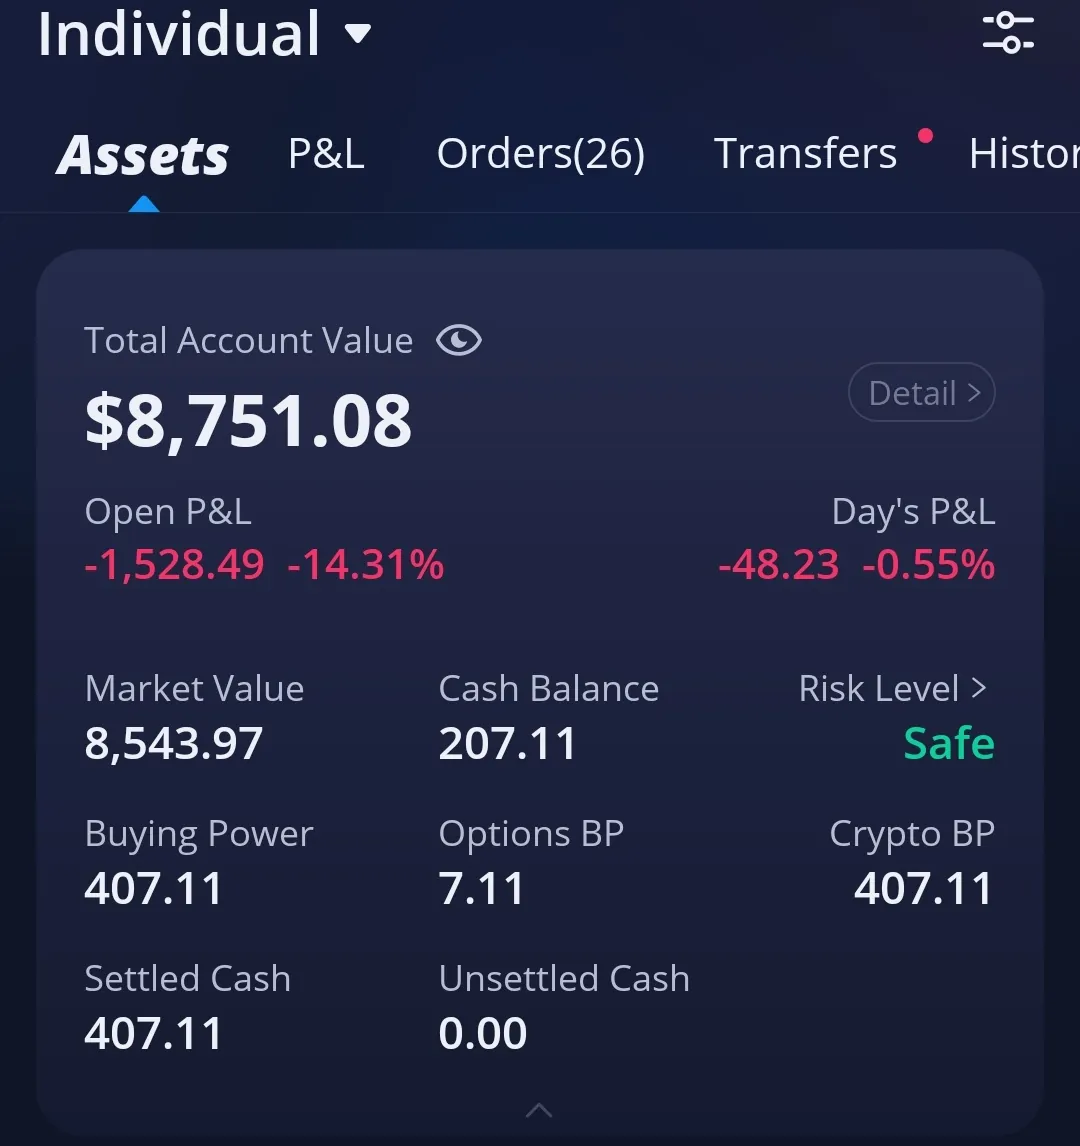
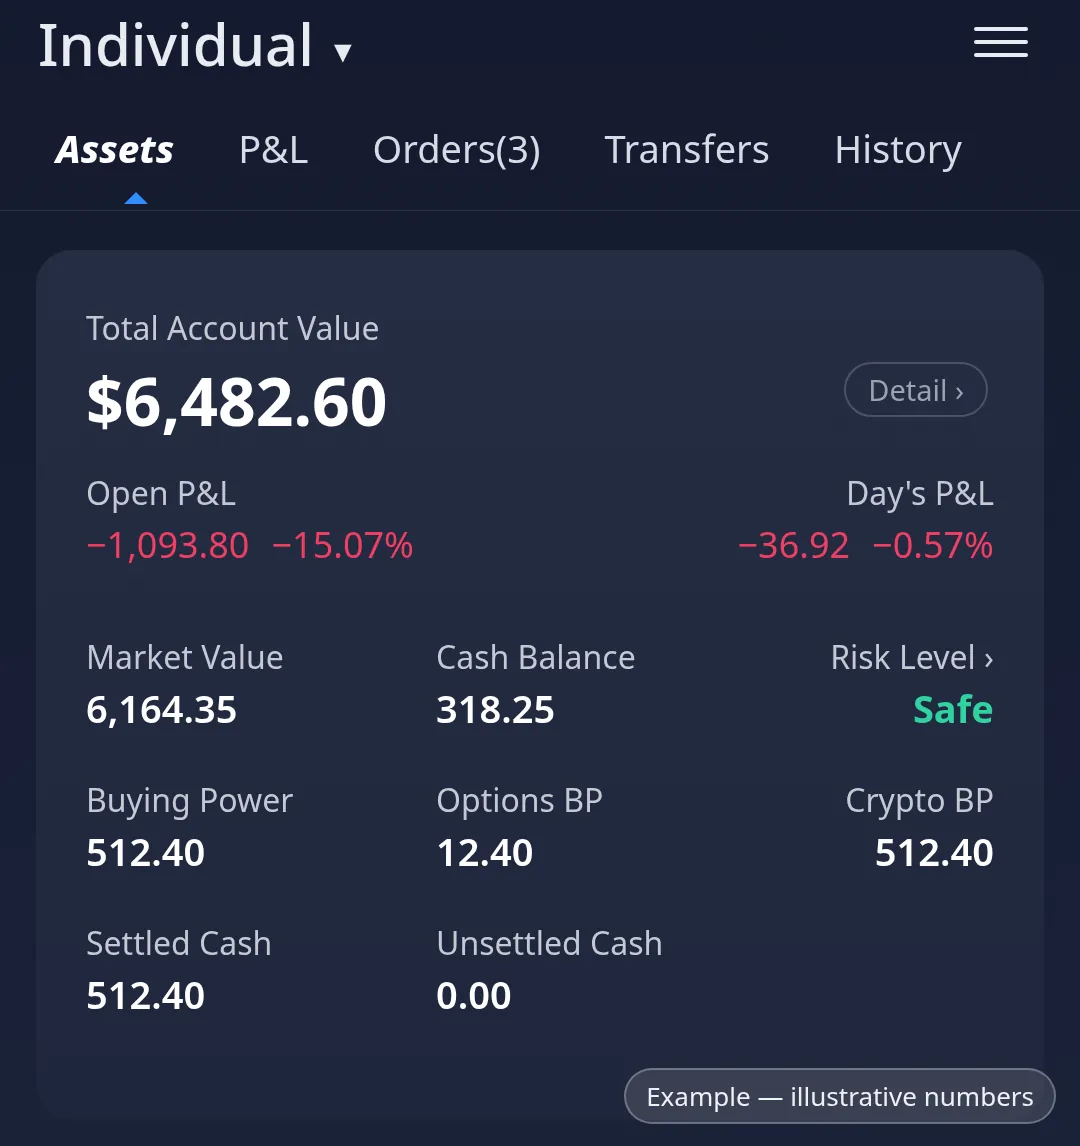
Replace the example Webull screenshots with illustrative look-alike screens.

diff --git a/src/lib/chartingApps.ts b/src/lib/chartingApps.ts
@@ -59,7 +59,7 @@ export const WEBULL_SOURCES: Src[] = [
   s("Webull: platform navigation (Script Editor)", "https://www.webull.com/help/faq/11033-General-Platform-Navigation"),
 ];
 
-// ---------------------------------------------------------------- #22 example Webull screenshots
+// ---------------------------------------------------------------- #22 example Webull-style screens (look-alikes, illustrative numbers)
 export interface ScreenshotDef { id: string; src: string; srcSmall: string; width: number; height: number; alt: string; title: string; captions: string[] }
 export const WEBULL_SCREENSHOTS: ScreenshotDef[] = [
   {
@@ -68,7 +68,7 @@ export const WEBULL_SCREENSHOTS: ScreenshotDef[] = [
     srcSmall: "/screenshots/webull-pl-calendar-480.webp",
     width: 640, height: 781,
     title: "P&L Calendar (month view)",
-    alt: "Webull P&L Calendar, month view for February 2025: Monday Jan 27 to Friday Jan 31 show +55.41, +28.44, +61.10, +47.54 and +77.71, and Today shows +267.12, all in green.",
+    alt: "Example Webull-style P&L Calendar with illustrative numbers, month view for August 2026: Monday Jul 27 to Friday Jul 31 show +42.18, +19.65, +73.04, +36.27 and +58.90, and Today shows +184.36, all in green.",
     captions: [
       "Each day shows that day's total profit or loss across your assets: trades closed that day plus the day's change in positions you still hold, after fees.",
       "Useful for spotting overtrading and streaks: a run of busy days, or a habit of trading more after a loss.",
@@ -81,10 +81,10 @@ export const WEBULL_SCREENSHOTS: ScreenshotDef[] = [
     srcSmall: "/screenshots/webull-assets-480.webp",
     width: 1080, height: 1146,
     title: "Assets tab",
-    alt: "Webull Assets tab: Total Account Value $8,751.08; Open P&L −1,528.49 (−14.31%); Day's P&L −48.23 (−0.55%); Market Value 8,543.97; Cash Balance 207.11; Risk Level Safe; Buying Power 407.11; Options BP 7.11; Crypto BP 407.11; Settled Cash 407.11; Unsettled Cash 0.00.",
+    alt: "Example Webull-style Assets tab with illustrative numbers: Total Account Value $6,482.60; Open P&L −1,093.80 (−15.07%); Day's P&L −36.92 (−0.57%); Market Value 6,164.35; Cash Balance 318.25; Risk Level Safe; Buying Power 512.40; Options BP 12.40; Crypto BP 512.40; Settled Cash 512.40; Unsettled Cash 0.00.",
     captions: [
-      "Open P&L (−14.31%) is unrealized: (last price − average cost) × shares, across what you hold now. Day's P&L (−0.55%) is just today's change.",
-      "A calendar of green days can sit alongside −14% open P&L: the days measure change from each prior close, while open P&L still counts from your original cost.",
+      "Open P&L (−15.07%) is unrealized: (last price − average cost) × shares, across what you hold now. Day's P&L (−0.57%) is just today's change.",
+      "A calendar of green days can sit alongside −15% open P&L: the days measure change from each prior close, while open P&L still counts from your original cost.",
       "Cash, Buying Power, and Settled vs Unsettled Cash are different numbers. US stock trades settle T+1 (one business day after the trade, since May 28, 2024), so sale proceeds show as unsettled until then.",
       "Options BP is tracked separately and can be far lower than stock buying power. Check it before an options order.",
       "Risk Level is Webull's margin-call indicator: Safe means no margin call right now, not that the positions are safe from losses.",
@@ -157,8 +157,8 @@ export const CHART_APP_QUESTIONS: QuizQuestion[] = [
   mc("CHA-08", "Why is broker education free?", "D", "Partly because brokers earn when you trade, including payment for order flow", ["Regulators pay for it", "It's always ad-free charity", "Brokers lose money on it on purpose"], "PFOF is legal and disclosed on confirmations. Learn, then decide how often to trade for your own reasons.", "payment-for-order-flow"),
   mc("CHA-09", "Payment for order flow is…", "B", "Payment a broker receives for routing customer orders to a market maker or venue", ["A fee you pay per order", "A tax on day trades", "Interest on cash"], "It must be disclosed on trade confirmations.", "payment-for-order-flow"),
   mc("CHA-10", "A sensible path from zero to real money is…", "A", "Tutorials for a month, about a year of paper trading, then small real positions", ["Real money on day one to learn faster", "One weekend of videos", "Wait for a guaranteed return first"], "No stage promises a result. Options take months to understand."),
-  mc("CHA-11", "In the example Webull Assets screen, Open P&L is −14.31% and Day's P&L is −0.55%. What's the difference?", "C", "Open P&L counts from your average cost on what you still hold; Day's P&L is only today's change", ["They're the same number in different units", "Day's P&L includes deposits", "Open P&L is realized gains"], "Open P&L is unrealized: (last price − average cost) × shares.", "open-pnl"),
-  mc("CHA-12", "The example screen shows Buying Power 407.11 and Options BP 7.11. What does that tell you?", "D", "Options buying power is tracked separately and is much lower here, so check it before an options order", ["You can buy $407 of options", "Options BP is always equal to cash", "The account is in a margin call"], "Stock, options and crypto buying power are separate lines."),
-  mc("CHA-13", "A P&L calendar shows five green days, yet open P&L is −14%. How?", "B", "Daily P&L measures change from each prior close; open P&L still counts from the original cost", ["The calendar is wrong", "Green days are unrealized only", "Open P&L ignores losses"], "A green streak doesn't mean the account is up overall.", "open-pnl"),
+  mc("CHA-11", "In the example Webull Assets screen, Open P&L is −15.07% and Day's P&L is −0.57%. What's the difference?", "C", "Open P&L counts from your average cost on what you still hold; Day's P&L is only today's change", ["They're the same number in different units", "Day's P&L includes deposits", "Open P&L is realized gains"], "Open P&L is unrealized: (last price − average cost) × shares.", "open-pnl"),
+  mc("CHA-12", "The example screen shows Buying Power 512.40 and Options BP 12.40. What does that tell you?", "D", "Options buying power is tracked separately and is much lower here, so check it before an options order", ["You can buy $512 of options", "Options BP is always equal to cash", "The account is in a margin call"], "Stock, options and crypto buying power are separate lines."),
+  mc("CHA-13", "A P&L calendar shows five green days, yet open P&L is −15%. How?", "B", "Daily P&L measures change from each prior close; open P&L still counts from the original cost", ["The calendar is wrong", "Green days are unrealized only", "Open P&L ignores losses"], "A green streak doesn't mean the account is up overall.", "open-pnl"),
   mc("CHA-14", "Since May 28, 2024, US stock trades settle…", "A", "T+1: one business day after the trade", ["Instantly", "T+2", "T+5"], "Sale proceeds show as unsettled until then.", "settled-cash"),
 ];

diff --git a/src/pages/practice/ChartingApps.tsx b/src/pages/practice/ChartingApps.tsx
@@ -139,8 +139,8 @@ export default function PracticeChartingApps() {
         <ul className="list-disc pl-5 space-y-1">{WEBULL_POINTS.map((p) => <li key={p}>{p}</li>)}</ul>
         <p className="text-[12px] space-x-1">{WEBULL_SOURCES.map(ext)}</p>
         <div className="space-y-2" data-testid="ca-webull-shots">
-          <p className="font-semibold">Example Webull screenshots</p>
-          <p className="text-[12px]">What Webull's account and P&L tools look like. They show account tracking, not how accurate any indicator is. Tap an image to enlarge.</p>
+          <p className="font-semibold">Example Webull-style screens</p>
+          <p className="text-[12px]">Look-alike recreations of Webull's account and P&L screens, with illustrative numbers. They show account tracking, not how accurate any indicator is. Tap an image to enlarge.</p>
           <div className="grid sm:grid-cols-2 gap-2">
             {WEBULL_SCREENSHOTS.map((sh) => <Shot key={sh.id} shot={sh} onOpen={() => setOpen(sh)} />)}
           </div>

diff --git a/README.md b/README.md
@@ -203,7 +203,7 @@ Detailed click scripts (exact labels for QA): [`QA_User_Flows.md`](./QA_User_Flo
 | `/practice/gamma-squeeze` | Gamma squeeze case: a SIMULATED weekly-call chase with enter / size / exit decisions, reveal, points and a stall counterfactual |
 | `/practice/news-biases` | News, biases & short-term options: expiry trade-off table, six bias cards, over- and underreaction research, OCO / bracket habits, a three-checkpoint news day |
 | `/practice/algo-trading` | Automated & algo trading (2026): broker API table, backtest traps, bot safety, PDT → intraday margin, stops around news, ATR sizing calculator, news-day playbook |
-| `/practice/charting-apps` | Indicator & charting apps: 11-app table, chart traps with a spot-the-trap drill, Robinhood and Webull charting views, example Webull screenshots, learning from broker apps |
+| `/practice/charting-apps` | Indicator & charting apps: 11-app table, chart traps with a spot-the-trap drill, Robinhood and Webull charting views, example Webull-style screens, learning from broker apps |
 | `/practice/crypto-candles` | Candlesticks for crypto: every candle pattern tagged works / adapted / rare in 24/7 markets, the harami takeaway |
 | `/practice/reversal-charts` | Reversal chart patterns: H&S, inverse H&S, double / triple tops and bottoms, wedges, rectangle vs triple bottom |
 | `/practice/one-minute-charts` | Reading 1-minute charts: grouping, open hour, legs drill, MES tick calculator, fib tools, bar count |
@@ -326,7 +326,7 @@ Beginner training modelled on how broker apps such as Webull teach new investors
 - 11 apps compared as of 2026-10-22: TradingView, Webull, Robinhood app, Robinhood Legend, thinkorswim, TC2000, TrendSpider, IBKR, Yahoo Finance, Finviz, StockCharts (indicators, scripting, layouts, cost, data notes, sources).
 - How charts mislead (log vs linear, extended hours, bar intervals, line vs candles, data feeds, unadjusted splits, indicator warm-up) with a three-item spot-the-trap drill.
 - Opinion panels, backed by each broker's docs: why the Robinhood app's indicator chart can mislead, and why Webull's is useful (MACD is taught as momentum, not overbought / oversold).
-- Example Webull screenshots (P&L calendar and Assets tab, `public/screenshots/*.webp` with 480 px variants, alt text and a tap-to-enlarge view): daily vs open P&L, cash vs buying power vs settled cash (T+1), separate options buying power, and the Risk Level indicator.
+- Example Webull-style screens (look-alike P&L calendar and Assets tab with illustrative numbers, `public/screenshots/*.webp` with 480 px variants, alt text and a tap-to-enlarge view): daily vs open P&L, cash vs buying power vs settled cash (T+1), separate options buying power, and the Risk Level indicator.
 - Learning from broker apps: Webull Learn, Fidelity, Schwab, Robinhood Learn and tastytrade; why it's free (payment for order flow); a sample path (a month of tutorials, about a year of paper trading, then small real positions) and an optional checklist.
 - Learn **Indicator & Charting Apps** (14 questions) and 6 glossary terms. Content in `src/lib/chartingApps.ts`.
 
